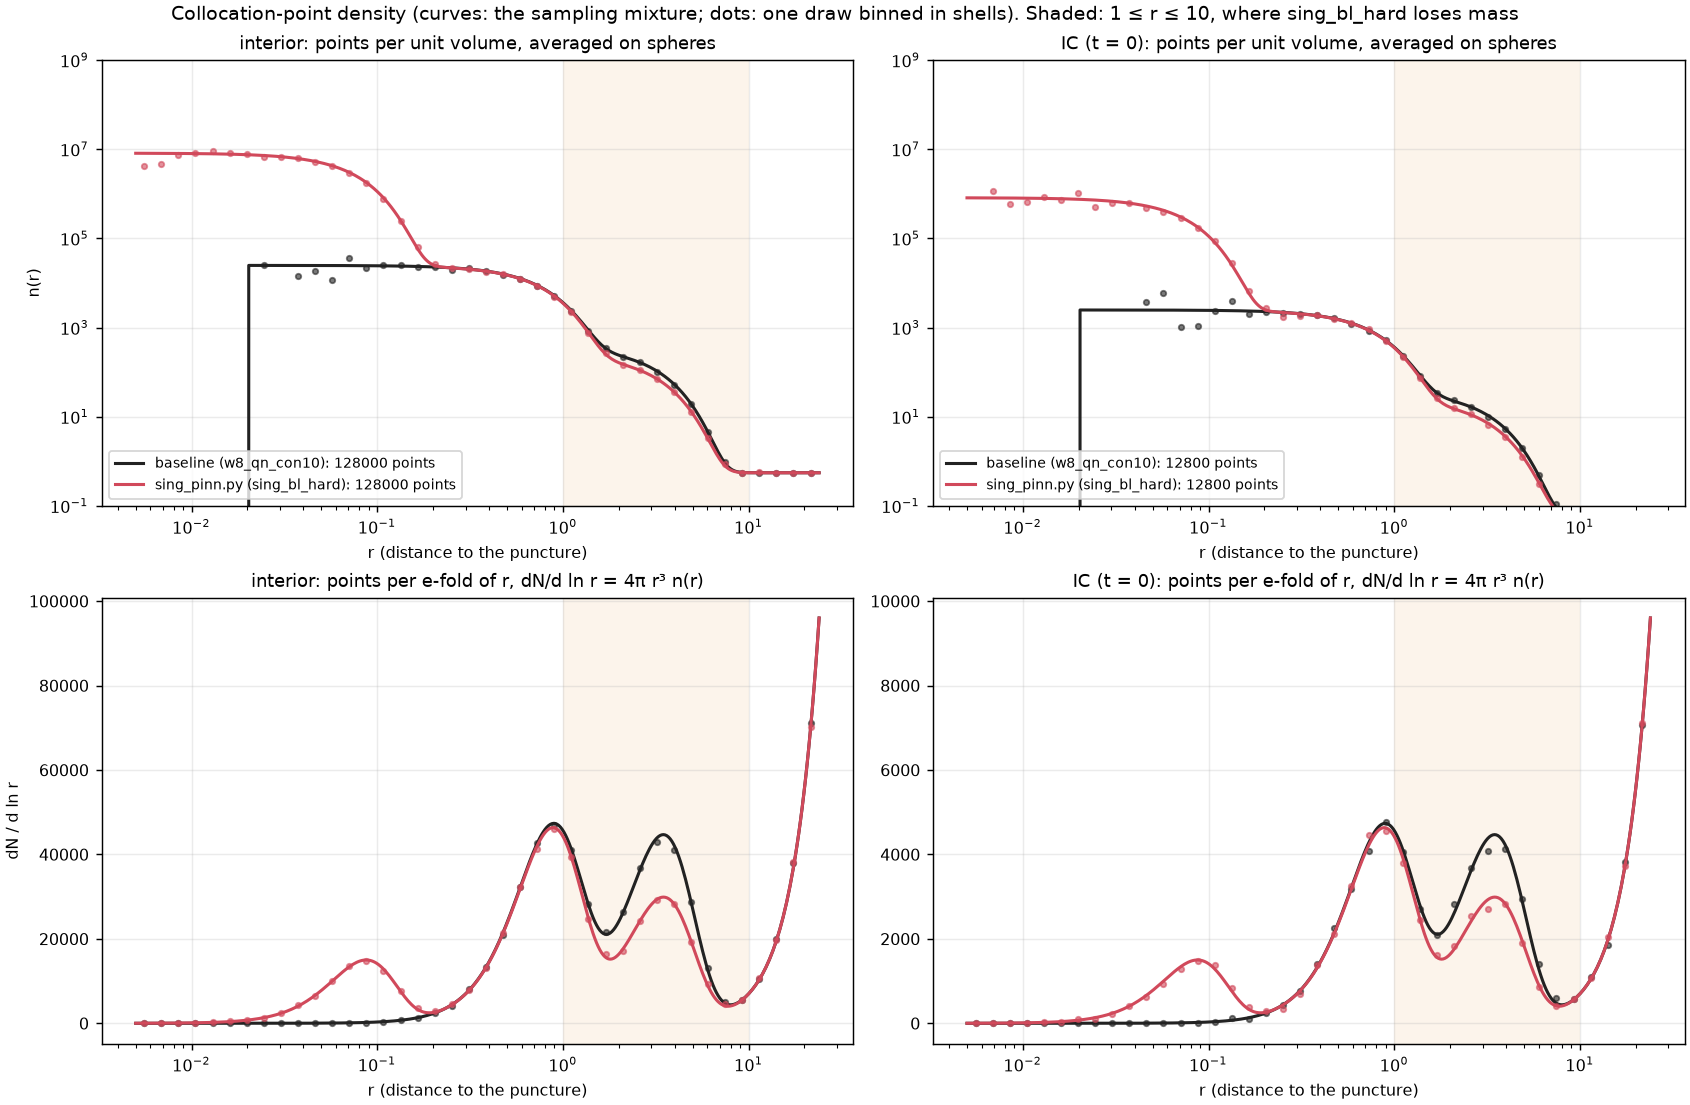
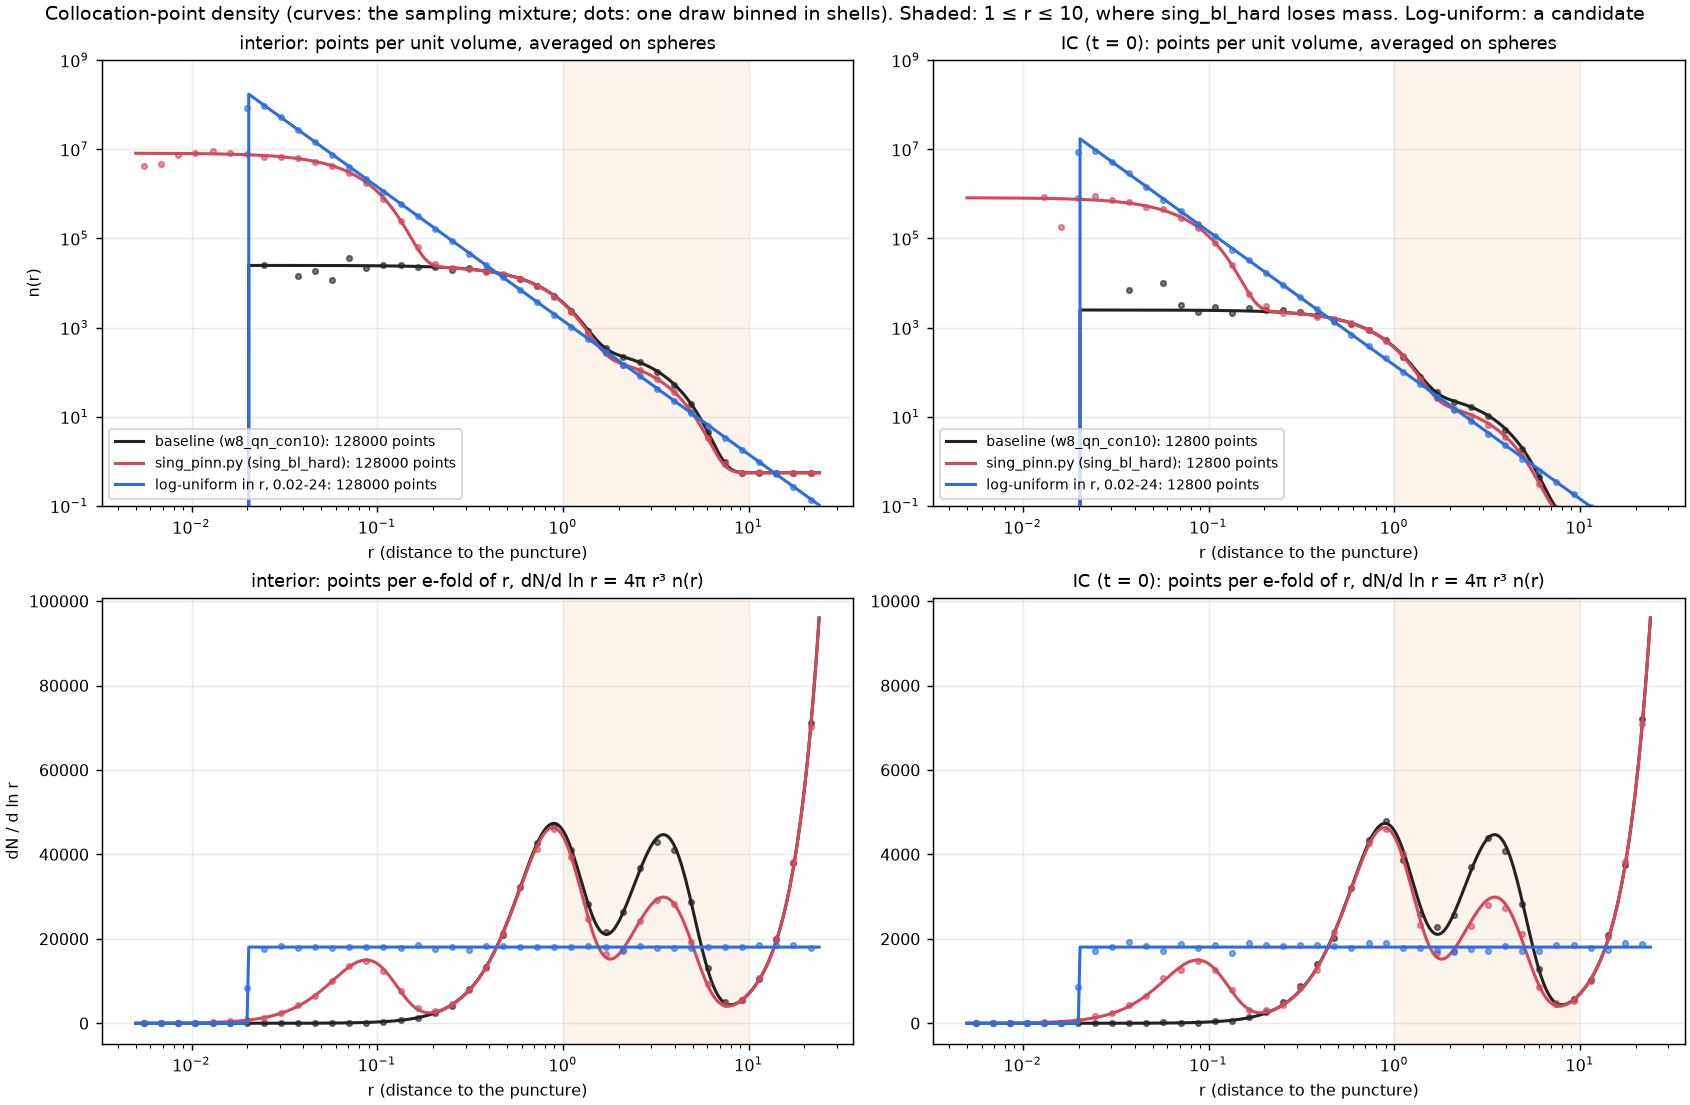
plot_point_density.py: log-uniform candidate sampler and counts by radius band; README

diff --git a/SBH/tools/plot_point_density.py b/SBH/tools/plot_point_density.py
@@ -11,6 +11,8 @@ as a check. Mixtures (window 0, puncture at the origin):
     (min_puncture_dist) are redrawn. IC: 8000 = 60% s = 2 + 40% uniform, plus core_ic_points 4800 at s = 0.5.
   sing_pinn.py (defaults = sing_bl_hard): every set (interior 128000, IC 12800) is 12.5% s = 0.05 (inner),
     37.5% s = 0.5 (core), 25% s = 2 (focus), the rest uniform; no exclusion.
+  log-uniform (a candidate, not implemented in either script): all points uniform in ln r for
+    0.02 <= r <= 24, i.e. the same count per e-fold, n ~ 1 / r^3.
 The time sampling (baseline: exponential in t) does not change the spatial density.
 """
 import os
@@ -26,8 +28,11 @@ OUT = sys.argv[1] if len(sys.argv) > 1 else os.path.join(os.path.dirname(os.path
                                                          "2026-10-30", "point_density.png")
 
 
+LOG_R = (0.02, R)
+
+
 def mixture(n_main, n_core, focus_frac, inner_frac=0.0, core_frac=0.0, sing=False):
-    """[(N, sigma)] Gaussians and the uniform count."""
+    """[(N, sigma)] Gaussians and the uniform count (a negative count = that many log-uniform points)."""
     if sing:
         n = n_main
         g = [(2 * int(f * n / 2), s) for f, s in ((inner_frac, 0.05), (core_frac, 0.5), (focus_frac, 2.0))]
@@ -38,12 +43,16 @@ def mixture(n_main, n_core, focus_frac, inner_frac=0.0, core_frac=0.0, sing=Fals
 
 SETS = {"baseline (w8_qn_con10)": {"interior": mixture(80000, 48000, 0.6), "IC (t = 0)": mixture(8000, 4800, 0.6)},
         "sing_pinn.py (sing_bl_hard)": {"interior": mixture(128000, 0, 0.25, 0.125, 0.375, True),
-                                        "IC (t = 0)": mixture(12800, 0, 0.25, 0.125, 0.375, True)}}
-RMIN_EXCL = {"baseline (w8_qn_con10)": 0.02, "sing_pinn.py (sing_bl_hard)": 0.0}
-COL = {"baseline (w8_qn_con10)": "#222222", "sing_pinn.py (sing_bl_hard)": "#d1495b"}
+                                        "IC (t = 0)": mixture(12800, 0, 0.25, 0.125, 0.375, True)},
+        "log-uniform in r, 0.02-24": {"interior": ([], -128000), "IC (t = 0)": ([], -12800)}}
+RMIN_EXCL = {"baseline (w8_qn_con10)": 0.02, "sing_pinn.py (sing_bl_hard)": 0.0, "log-uniform in r, 0.02-24": 0.0}
+COL = {"baseline (w8_qn_con10)": "#222222", "sing_pinn.py (sing_bl_hard)": "#d1495b",
+       "log-uniform in r, 0.02-24": "#2a6fdb"}
 
 
 def density(r, gauss, nu, rmin):
+    if nu < 0:
+        return np.where((r >= LOG_R[0]) & (r <= LOG_R[1]), -nu / (4 * np.pi * r ** 3 * np.log(LOG_R[1] / LOG_R[0])), 0.0)
     n = sum(N * (2 * np.pi * s ** 2) ** -1.5 * np.exp(-r ** 2 / (2 * s ** 2)) for N, s in gauss) + nu / (4 / 3 * np.pi * R ** 3)
     if rmin > 0:                                           # redrawn points: zero inside, total count unchanged
         rq = np.geomspace(1e-6, R, 20001)
@@ -53,6 +62,8 @@ def density(r, gauss, nu, rmin):
 
 
 def sample(gauss, nu, rmin, rng):
+    if nu < 0:
+        return LOG_R[0] * (LOG_R[1] / LOG_R[0]) ** rng.uniform(size=-nu)
     X = [s * rng.standard_normal((N, 3)) for N, s in gauss]
     u = rng.standard_normal((nu, 3))
     X.append(u / np.linalg.norm(u, axis=1, keepdims=True) * R * rng.uniform(size=(nu, 1)) ** (1 / 3))
@@ -71,7 +82,7 @@ for j, part in enumerate(("interior", "IC (t = 0)")):
     for name, sets in SETS.items():
         g, nu = sets[part]
         n = density(r, g, nu, RMIN_EXCL[name])
-        tot = sum(N for N, _ in g) + nu
+        tot = sum(N for N, _ in g) + abs(nu)
         rs = sample(g, nu, RMIN_EXCL[name], rng)
         h = np.histogram(rs, edges)[0] * tot / rs.size     # redrawn points keep the total
         vol = 4 / 3 * np.pi * (edges[1:] ** 3 - edges[:-1] ** 3)
@@ -89,7 +100,7 @@ for j, part in enumerate(("interior", "IC (t = 0)")):
 axs[0, 0].set_ylabel("n(r)")
 axs[1, 0].set_ylabel("dN / d ln r")
 fig.suptitle("Collocation-point density (curves: the sampling mixture; dots: one draw binned in shells). "
-             "Shaded: 1 ≤ r ≤ 10, where sing_bl_hard loses mass", fontsize=10.5)
+             "Shaded: 1 ≤ r ≤ 10, where sing_bl_hard loses mass. Log-uniform: a candidate", fontsize=10.5)
 os.makedirs(os.path.dirname(OUT), exist_ok=True)
 fig.savefig(OUT, dpi=130)
 print("wrote", OUT)
@@ -97,5 +108,6 @@ for name, sets in SETS.items():
     g, nu = sets["interior"]
     rq = np.geomspace(1e-6, R, 40001)
     dN = 4 * np.pi * rq ** 2 * density(rq, g, nu, RMIN_EXCL[name])
-    print(name, "interior points in 1 <= r <= 10:", int(np.trapezoid(np.where((rq >= 1) & (rq <= 10), dN, 0), rq)),
-          " r < 0.1:", int(np.trapezoid(np.where(rq < 0.1, dN, 0), rq)))
+    band = lambda lo, hi: int(np.trapezoid(np.where((rq >= lo) & (rq < hi), dN, 0), rq))
+    print(f"{name:30s} interior points  r < 0.1: {band(0, 0.1):6d}  0.1-1: {band(0.1, 1):6d}  1-10: {band(1, 10):6d}"
+          f"  10-24: {band(10, R + 1):6d}")

diff --git a/SBH/README.md b/SBH/README.md
@@ -1230,6 +1230,13 @@ uniform, plus core_points 48000 at s = 0.5, nothing below r = 0.02 (min_puncture
 s = 2 cloud to the puncture: ~12000 interior points at r < 0.1 (baseline ~100) and 45900 in 1 <= r <= 10
 against 61400 (-25%), i.e. fewer exactly where sing_bl_hard loses its mass; identical for r < 1 above
 0.2 and for r > 8. (The IC set has the same shapes at 1/10 the count.)
+The plot also shows a candidate log-uniform sampler (uniform in ln r on 0.02 <= r <= 24, n ~ r^-3, ~18000
+points per e-fold). Interior counts by band (r < 0.1 / 0.1-1 / 1-10 / 10-24): baseline 101 / 36833 / 61379 /
+29685; sing_pinn.py 11918 / 40522 / 45873 / 29685; log-uniform 29053 / 41570 / 41570 / 15803. It puts 23% of
+the points inside r = 0.1, which the template already covers, and has fewer in 1-10 than either run. Since
+the loss is a mean over the points, the sampling density is also the weight of the residual: log-uniform
+weights the residual squared by r^-3. Log-uniform on 0.2-24 instead would give ~43000 / 61600 / 23400 in
+0.2-1 / 1-10 / 10-24, close to the baseline.
 
 **Two at once does not fit (2026-10-29).** `sing_bl_ic` and `sing_bl_ic_t05`, launched together on the hub
 A30 with `XLA_PYTHON_CLIENT_MEM_FRACTION=0.47` each, both died with RESOURCE_EXHAUSTED (8.06 GiB in one
